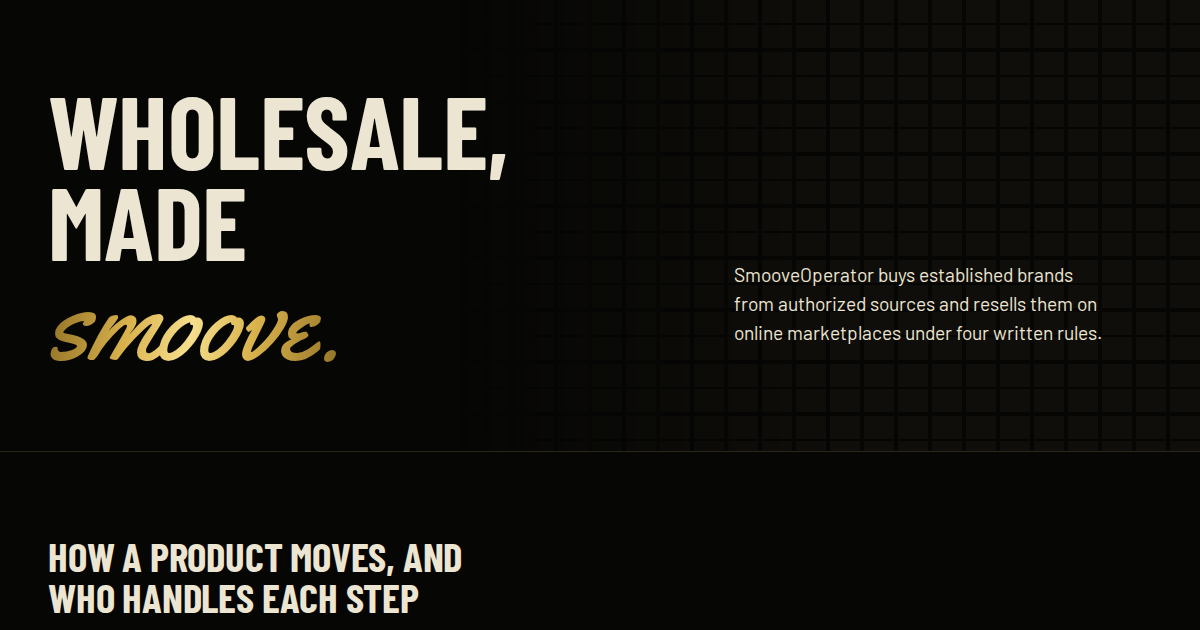
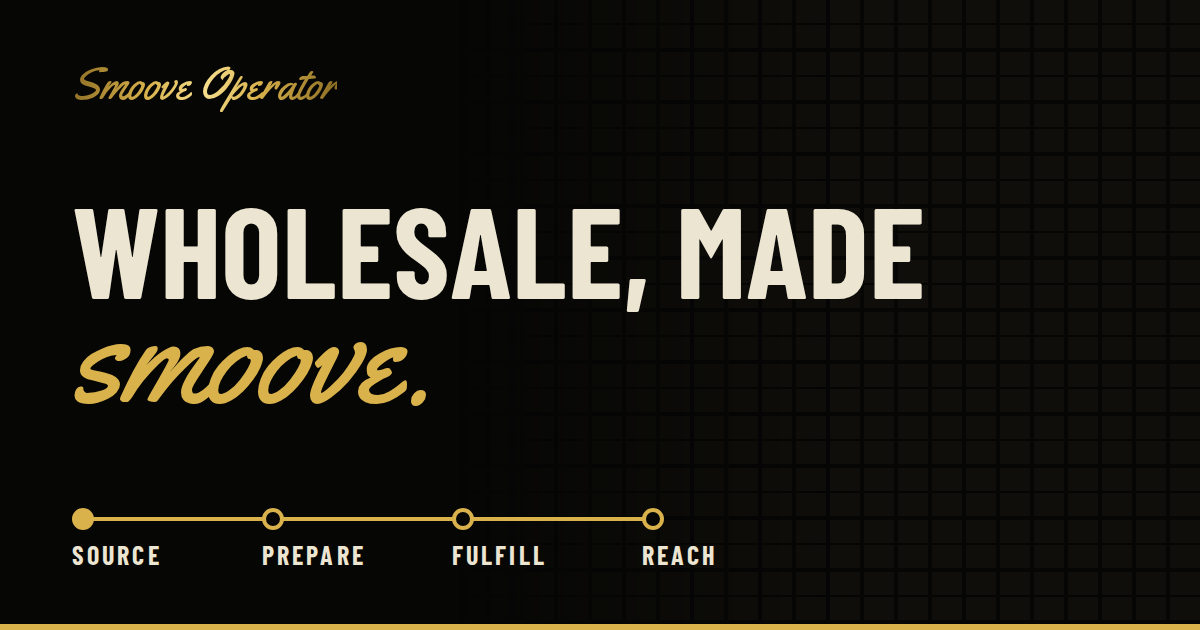
Apply Departures finish review fixes
Restore the original rule verdict wording in the status column, light
finished route stations in gold, flat gold smoove. (gradient only on the
logo), sentence-case FAQ, skipped state by tone instead of opacity with
the math dimmed, a composed social card with provenance, headline and
progress alignment, upright emphasis in headings.

Claude-Session: https://claude.ai/code/session_01XHhFBUYUGqh71aBSnu29Yq

Changed region(s): [[0.0308, 0.3016, 0.925, 0.6635], [0.0, 0.8143, 1.0, 1.0], [0.0308, 0.0905, 0.4317, 0.3016]]

diff --git a/public/assets/site.css b/public/assets/site.css
@@ -98,7 +98,7 @@ p{text-wrap:pretty}
 .hero{border-bottom:1px solid var(--rule)}
 .hero-grid{display:grid;grid-template-columns:minmax(0,1.2fr) minmax(0,.8fr);gap:clamp(28px,5vw,72px);align-items:end;padding-block:clamp(56px,7vw,96px) clamp(56px,6vw,88px)}
 .hero h1{font:700 clamp(60px,8.6vw,120px)/.88 var(--cond);letter-spacing:-.005em;text-transform:uppercase;margin:0}
-.hero h1 .script{display:block;font-size:1.08em;line-height:1.02;padding-right:.08em;width:max-content;max-width:100%;background:linear-gradient(100deg,var(--gold-lo),var(--gold) 28%,var(--gold-hi) 48%,var(--gold) 68%,var(--gold-lo));-webkit-background-clip:text;background-clip:text;color:transparent}
+.hero h1 .script{display:block;font-size:1.08em;line-height:1.02;margin-top:-.15em;padding-right:.08em;color:var(--gold)}
 .lede{max-width:52ch;color:var(--muted);font-size:clamp(17px,1.4vw,19px);margin:26px 0 32px}
 .hero .lede{color:var(--text);max-width:34ch;font-size:clamp(18px,1.6vw,21px);line-height:1.5;margin-top:0}
 .seal{display:flex;align-items:center;gap:12px;margin:32px 0 0;font:500 15px/1.4 var(--body);color:var(--text)}
@@ -109,7 +109,7 @@ p{text-wrap:pretty}
 .section{padding-block:clamp(80px,10vw,128px)}
 .section-tight{padding-block:clamp(56px,7vw,96px)}
 h2{font:700 clamp(40px,5.2vw,72px)/.95 var(--cond);letter-spacing:-.005em;text-transform:uppercase;margin:0}
-h1 em,h2 em{font-style:italic;font-weight:600}
+h1 em,h2 em{font-style:normal;font-weight:700}
 /* gold marks one claim per page, nothing else */
 em.claim{color:var(--gold);font-style:normal;font-weight:700}
 .stack em{display:block}
@@ -134,6 +134,7 @@ em.claim{color:var(--gold);font-style:normal;font-weight:700}
 .stops{list-style:none;margin:0;padding:0;display:grid;grid-template-columns:repeat(var(--n),1fr);gap:0 20px;text-align:center}
 .stop{display:grid;justify-items:center;align-content:start;gap:8px;transition:opacity .5s var(--ease)}
 .stop-dot{width:var(--dot);height:var(--dot);border-radius:50%;background:var(--black);border:4px solid var(--gold-lo);position:relative;z-index:1;transition:border-color .4s var(--ease),background .4s var(--ease)}
+.stop-dot{border-color:var(--gold)}
 .stop.is-ours .stop-dot{background:var(--gold);border-color:var(--gold)}
 .stop-n{font:italic 600 24px/1 var(--cond);color:var(--muted);margin-top:14px}
 .stop.is-ours .stop-n{color:var(--gold)}
@@ -164,20 +165,22 @@ em.claim{color:var(--gold);font-style:normal;font-weight:700}
 .rules{display:grid;grid-template-columns:minmax(0,1.6fr) minmax(280px,1fr);grid-template-rows:auto 1fr auto;grid-template-areas:"board head" "board sample" "foot foot";gap:0 clamp(28px,4vw,56px);margin-top:clamp(36px,4vw,52px)}
 html:not(.js) .rules{grid-template-columns:1fr;grid-template-areas:"board" "foot"}
 .board{grid-area:board;background:var(--board);border:1px solid var(--rule-2)}
-.board-head{display:grid;grid-template-columns:64px 1fr 170px;gap:20px;padding:14px 24px;border-bottom:1px solid var(--rule-2);font:600 13px/1 var(--cond);letter-spacing:.2em;text-transform:uppercase;color:var(--muted)}
+.board-head{display:grid;grid-template-columns:64px 1fr 230px;gap:20px;padding:14px 24px;border-bottom:1px solid var(--rule-2);font:600 13px/1 var(--cond);letter-spacing:.2em;text-transform:uppercase;color:var(--muted)}
 html:not(.js) .board-head{grid-template-columns:64px 1fr}
 .board-rows{list-style:none;margin:0;padding:0}
-.board-row{display:grid;grid-template-columns:64px 1fr 170px;gap:20px;align-items:start;padding:22px 24px;border-top:1px solid var(--rule);transition:opacity var(--t2) var(--ease)}
+.board-row{display:grid;grid-template-columns:64px 1fr 230px;gap:20px;align-items:start;padding:22px 24px;border-top:1px solid var(--rule);transition:opacity var(--t2) var(--ease)}
 .board-row:first-child{border-top:0}
 html:not(.js) .board-row{grid-template-columns:64px 1fr}
 .board-n{display:grid;place-items:center;width:52px;height:64px;font:700 30px/1 var(--cond);text-transform:lowercase;color:var(--gold);background:linear-gradient(#1c1a14 0 49%,#070706 49% 51%,#17150f 51%);border-radius:3px}
 .board-rule h3{font:700 clamp(22px,2.1vw,28px)/1.05 var(--cond);text-transform:uppercase;margin:4px 0 8px}
 .board-rule p{margin:0;color:var(--muted);font-size:16px}
 .board-rule code{display:inline-block;margin-top:12px;font:600 16px/1.3 var(--cond);letter-spacing:.06em;color:var(--gold-hi);border:1px solid var(--rule-2);padding:6px 10px}
-.board-status{margin:4px 0 0;font:700 19px/1.2 var(--cond);letter-spacing:.06em;text-transform:uppercase;color:var(--gold-hi);border-left:2px solid var(--gold-lo);padding:6px 0 6px 12px}
+.board-status{margin:4px 0 0;font:600 19px/1.25 var(--cond);letter-spacing:.02em;color:var(--gold-hi);border-left:2px solid var(--gold-lo);padding:6px 0 6px 12px}
 .board-status b{font-weight:700;font-variant-numeric:tabular-nums lining-nums}
 .rules.is-skipped .board-row[data-rule="1"] .board-status{background:var(--gold);color:var(--black);border-left-color:var(--gold)}
-.rules.is-skipped .board-row:not([data-rule="1"]){opacity:.5}
+.rules.is-skipped .board-row:not([data-rule="1"]) :is(h3,.board-n,.board-status,code){color:var(--muted)}
+.rules.is-skipped .board-row:not([data-rule="1"]) .board-status{border-left-color:var(--rule-2)}
+.rules.is-skipped .calc .flaps i{color:var(--gold-lo)}.rules.is-skipped .calc .op{color:var(--rule-2)}
 .sample-head{grid-area:head}
 .sample-head h3{font:700 28px/1 var(--cond);text-transform:uppercase;margin:0 0 8px}
 .sample-note{margin:0;color:var(--muted);font-size:15px}
@@ -279,7 +282,7 @@ input[type=range]:focus-visible{outline-offset:2px}
 .faq h2{margin-bottom:clamp(28px,4vw,44px)}
 .qa{margin:0;columns:2 340px;column-gap:clamp(32px,6vw,80px)}
 .qa div{break-inside:avoid;padding:22px 0 24px;border-top:1px solid var(--rule)}
-.qa dt{font:700 22px/1.15 var(--cond);text-transform:uppercase;margin:0 0 8px}
+.qa dt{font:600 20px/1.3 var(--body);margin:0 0 8px}
 .qa dd{margin:0;color:var(--muted)}
 
 /* profile sheet: a shipping manifest */
@@ -315,7 +318,7 @@ input[type=range]:focus-visible{outline-offset:2px}
 .fit-progress{display:none;position:relative;margin:0 0 24px;scroll-margin-top:96px}
 .js .fit-progress{display:block}
 .fit-progress ol{list-style:none;margin:0;padding:0;display:grid;grid-template-columns:repeat(3,1fr);text-align:center}
-.fit-progress li{display:grid;justify-items:center;gap:10px;font:600 14px/1.2 var(--cond);letter-spacing:.14em;text-transform:uppercase;color:var(--muted);transition:color var(--t2) var(--ease)}
+.fit-progress li{display:grid;justify-items:center;align-content:start;gap:10px;font:600 14px/1.2 var(--cond);letter-spacing:.14em;text-transform:uppercase;color:var(--muted);transition:color var(--t2) var(--ease)}
 .fit-progress li::before{content:"";width:16px;height:16px;border-radius:50%;background:var(--board);border:3px solid var(--rule-2);position:relative;z-index:1;transition:border-color var(--t2) var(--ease),background var(--t2) var(--ease)}
 .fit-progress li.is-done,.fit-progress li.is-current{color:var(--text)}
 .fit-progress li.is-done::before,.fit-progress li.is-current::before{border-color:var(--gold)}

diff --git a/public/assets/site.js b/public/assets/site.js
@@ -66,7 +66,7 @@ if(board){
     for(const id of ['v-low','r-low'])$(id).textContent=fmt(per);
     for(const id of ['v-high','r-high'])$(id).textContent=fmt(per*2);
     flapTo('f-sales',s);flapTo('f-sellers',n);flapTo('f-per',per);
-    board.classList.toggle('is-skipped',off);rule1.textContent=off?'Skipped':'Continue';
+    board.classList.toggle('is-skipped',off);rule1.textContent=off?'Marketplace is selling. Skip this listing.':'Marketplace isn’t selling. Continue.';
     paint(sales);paint(sellers);
     if(announce){clearTimeout(liveTimer);liveTimer=setTimeout(()=>{live.textContent=off?'Rule 1 skips this listing. No order.':`Our share is ${fmt(per)} units a month. First order: ${fmt(per)} to ${fmt(per*2)} units.`;},600);}
   };
